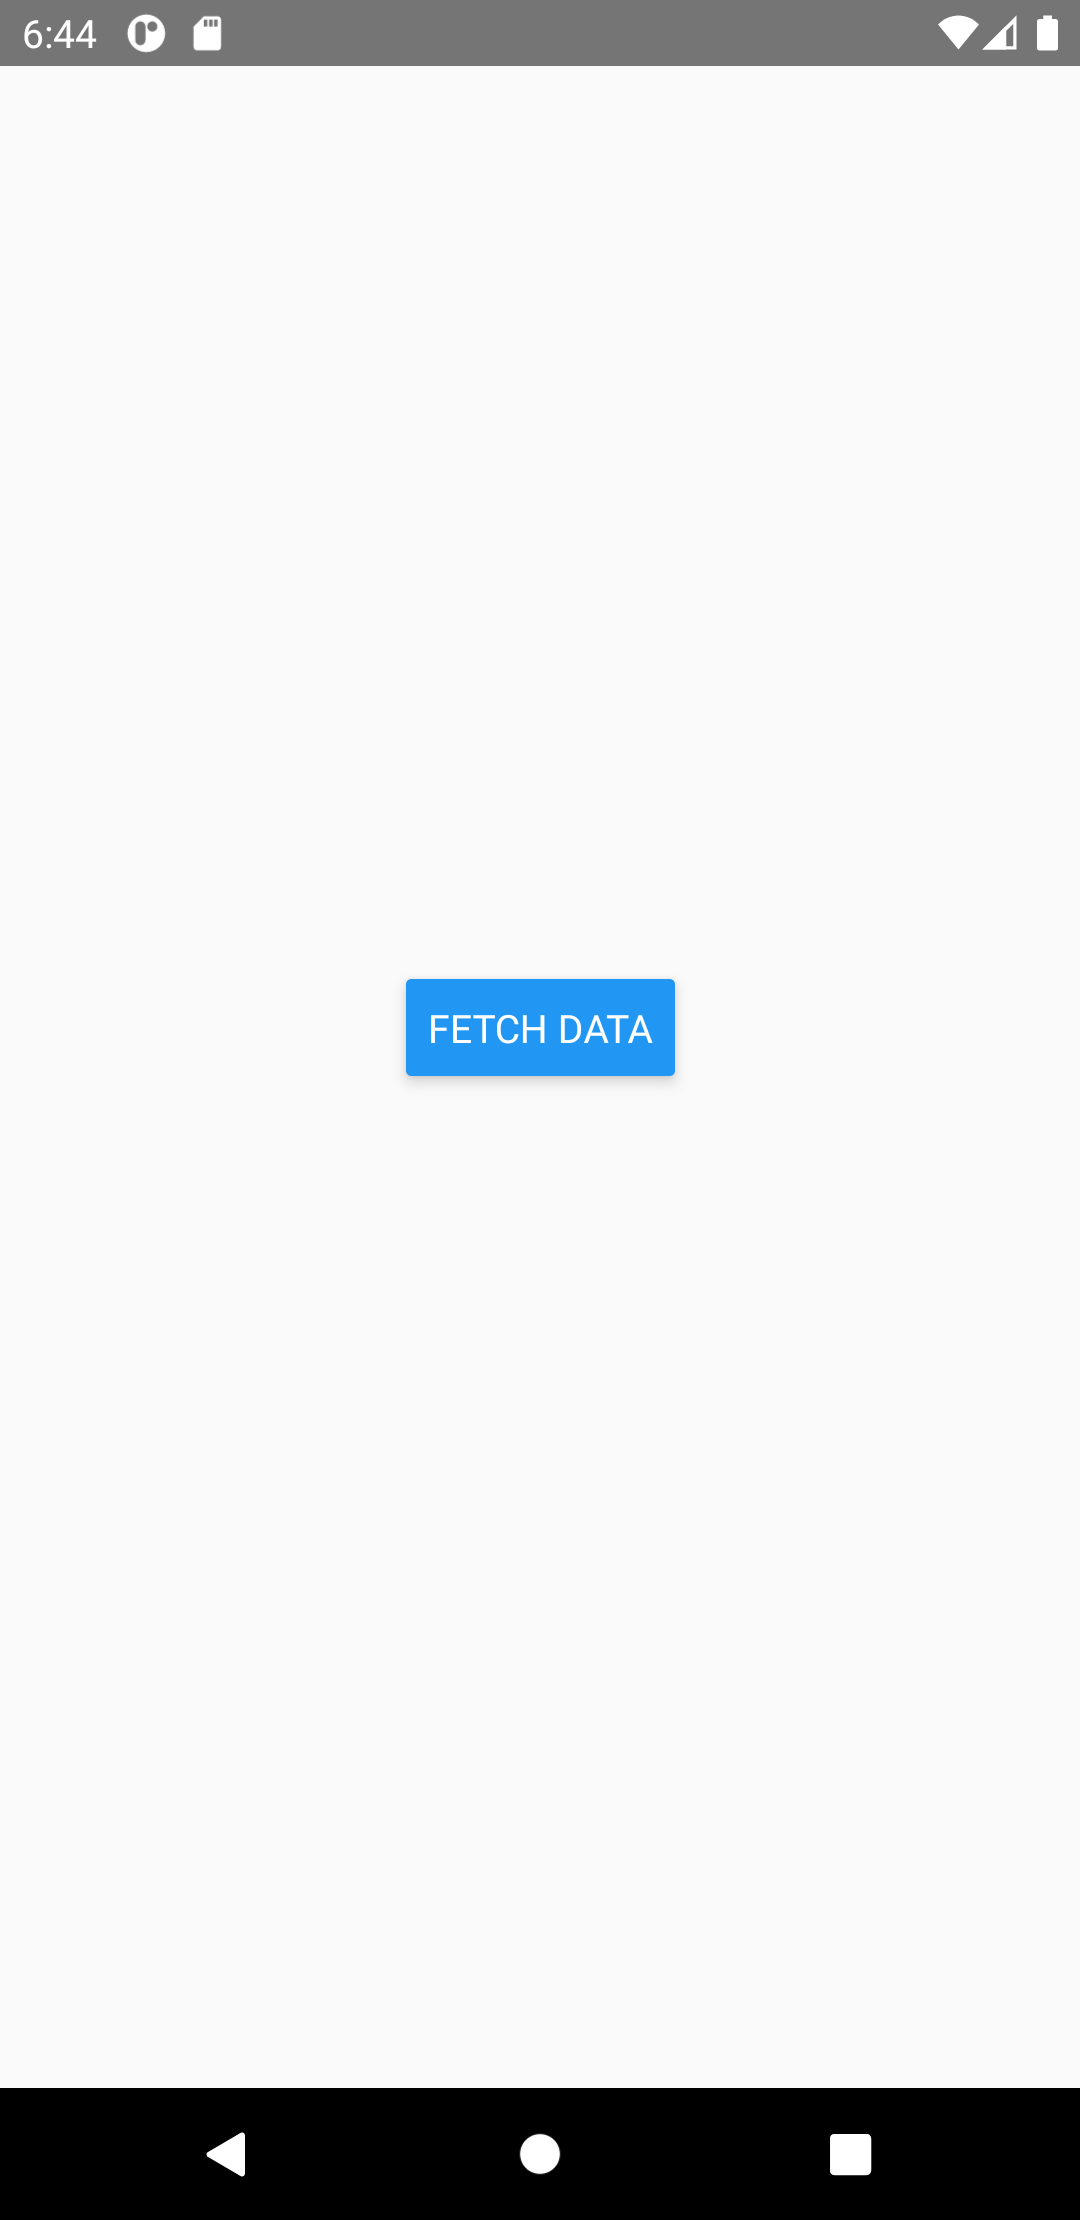
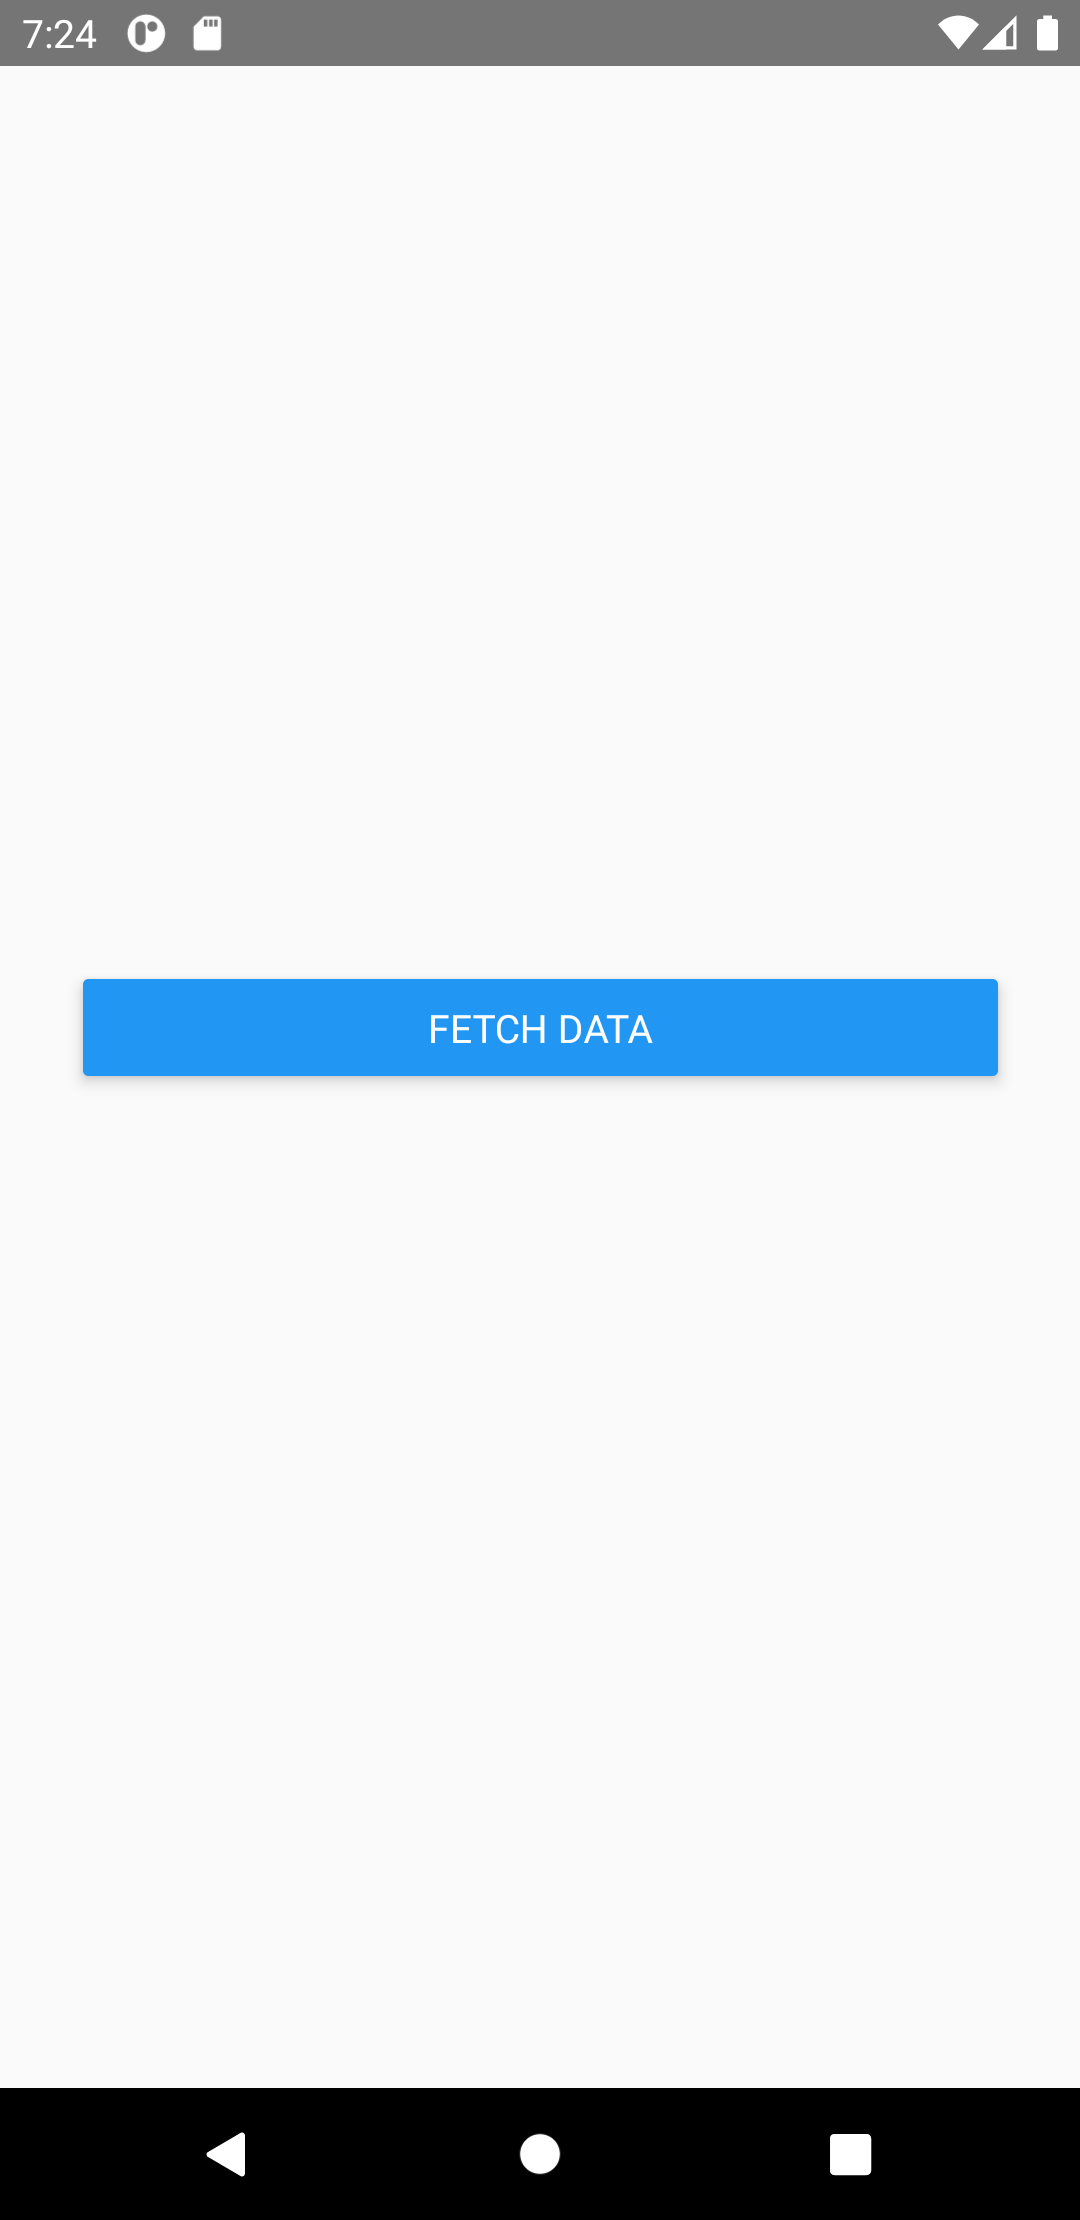
3-March-2021

Changed region(s): [[0.6111, 0.4351, 0.9472, 0.4973], [0.0611, 0.4351, 0.3972, 0.4973], [0.0306, 0.0, 0.0611, 0.0311]]

diff --git a/src/componenets/Exercise.js b/src/componenets/Exercise.js
@@ -60,7 +60,7 @@ class Exercise extends Component {
         <SafeAreaView />
         <ScrollView contentContainerStyle={styles.container}>
           {!loading && !data ? (
-            <View>
+            <View style={styles.button}>
               <Button title='Fetch Data' onPress={this.onPress} />
             </View>
           ) : (
@@ -85,9 +85,10 @@ const styles = StyleSheet.create({
   container: {
     flex: 1,
     justifyContent: "center",
-    alignItems: "center",
   },
-
+  button: {
+    marginHorizontal: 30,
+  },
   card: {
     flex: 1,
     padding: 16,
